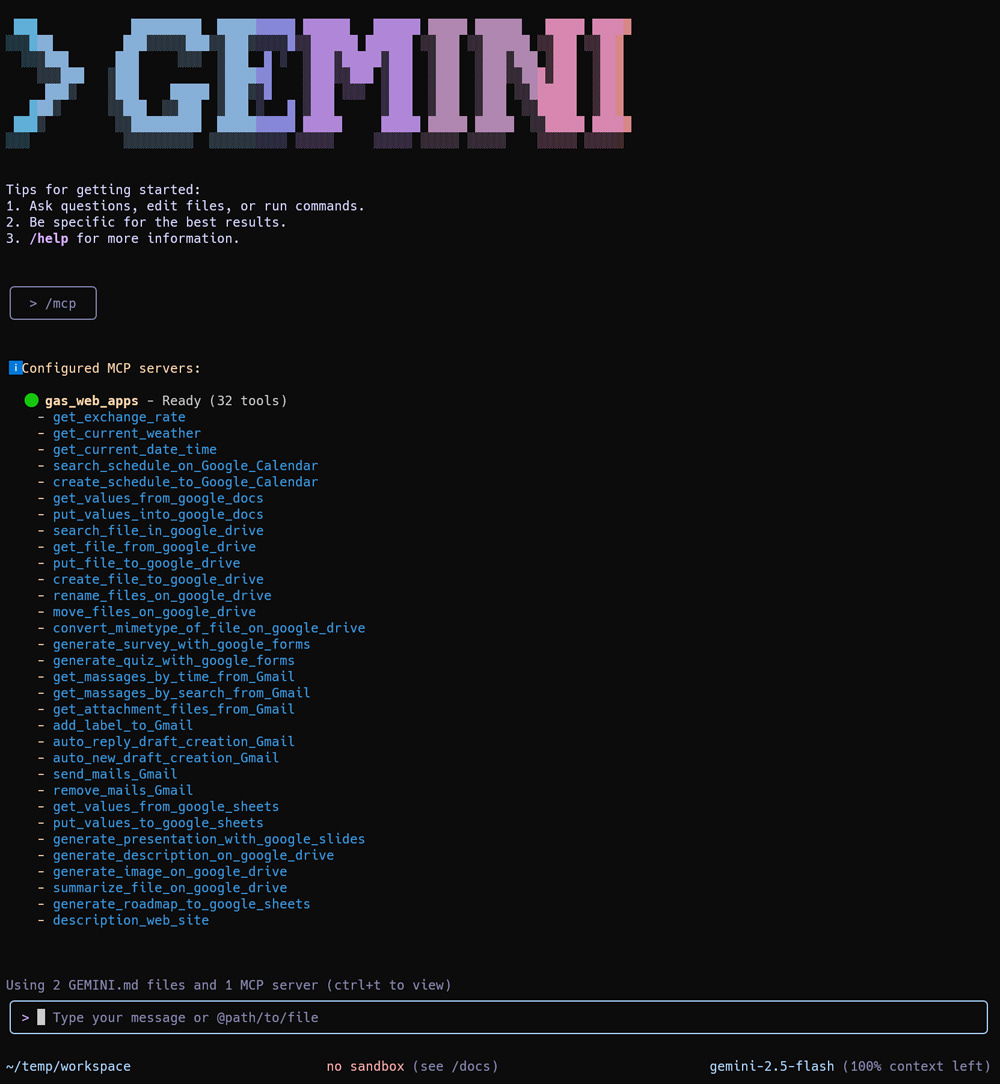
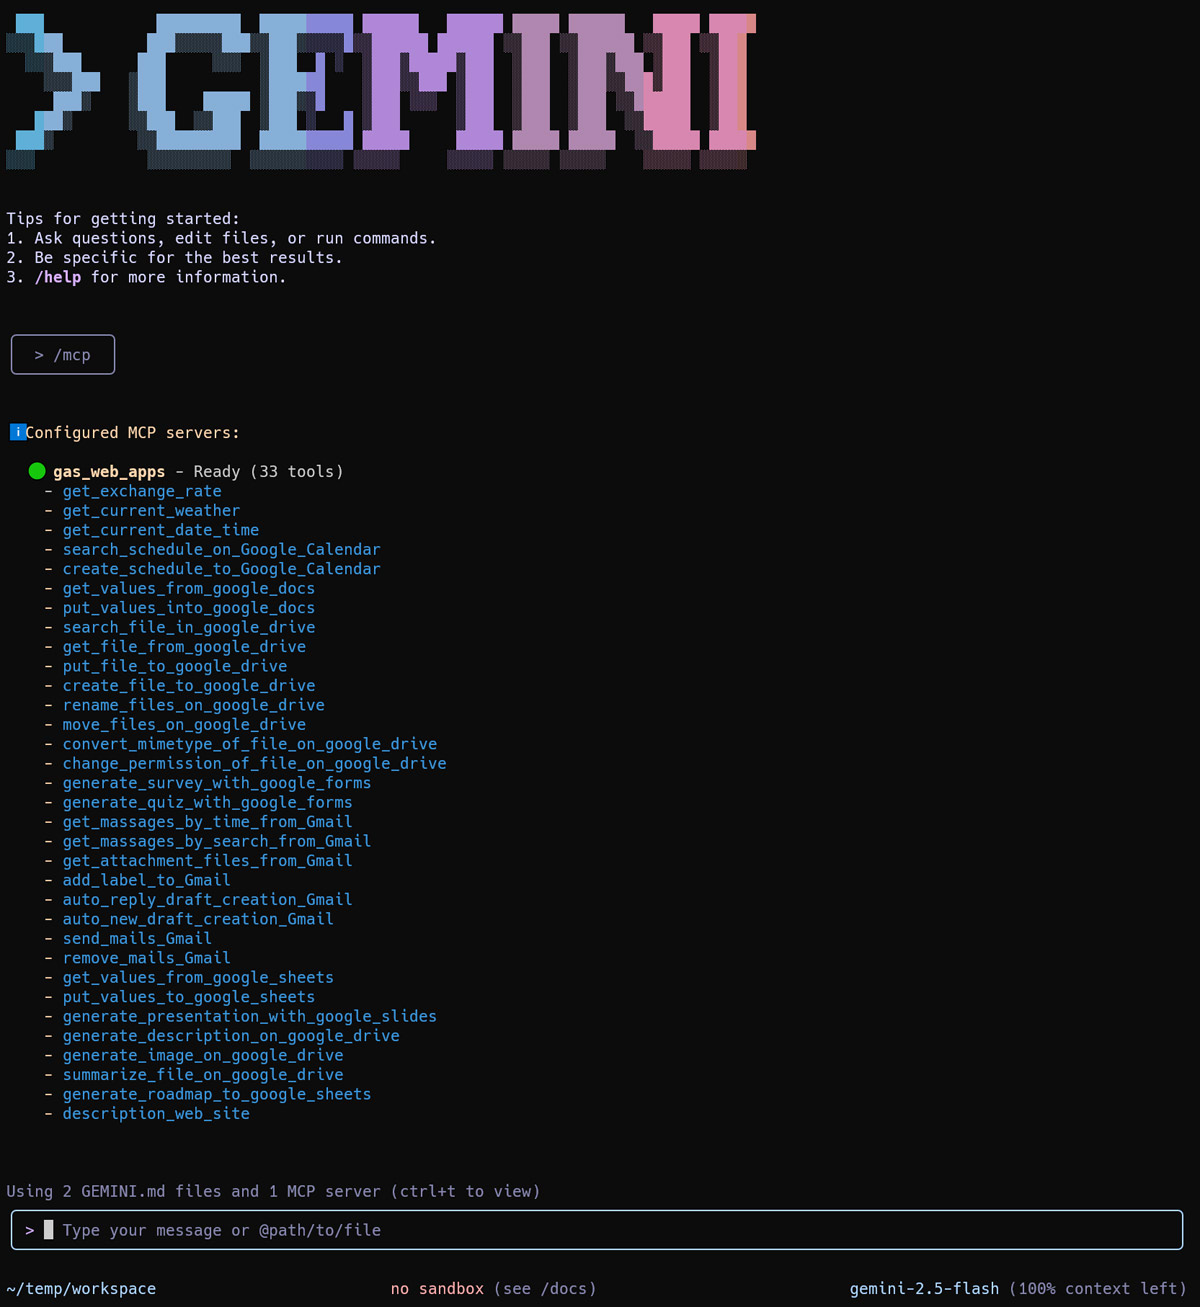
Updated to v1.0.2

Changed region(s): [[0.0, 0.0, 0.992, 1.0]]

diff --git a/management_drive.js b/management_drive.js
@@ -1,6 +1,6 @@
 /**
  * Management of Google Drive
- * Updated on 20250708 13:20
+ * Updated on 20250709 10:25
  */
 
 /**
@@ -275,6 +275,60 @@ function convert_mimetype_of_file_on_google_drive(object = {}) {
   return { jsonrpc: "2.0", result };
 }
 
+/**
+ * This function changes the permission of a file or folder on Google Drive.
+ * 20250709 09:50
+ * @private
+ */
+function change_permission_of_file_on_google_drive(object = {}) {
+  const { fileId, email, role } = object;
+  let result;
+  try {
+    if (!fileId || !email || !role) {
+      throw new Error("Missing required parameters. Please provide 'fileId', 'email', and 'role'.");
+    }
+    const normalizedRole = role.toLowerCase();
+    if (!['viewer', 'commenter', 'editor'].includes(normalizedRole)) {
+      throw new Error("Invalid role specified. The role must be one of 'viewer', 'commenter', or 'editor'.");
+    }
+
+    let item;
+    let itemType;
+
+    try {
+      item = DriveApp.getFileById(fileId);
+      itemType = "file";
+    } catch (e) {
+      try {
+        item = DriveApp.getFolderById(fileId);
+        itemType = "folder";
+      } catch (f) {
+        throw new Error(`Could not find a file or folder with the ID '${fileId}'.`);
+      }
+    }
+
+    switch (normalizedRole) {
+      case 'editor':
+        item.addEditor(email);
+        break;
+      case 'commenter':
+        item.addCommenter(email);
+        break;
+      case 'viewer':
+        item.addViewer(email);
+        break;
+    }
+
+    result = { content: [{ type: "text", text: `Permission for the ${itemType} '${item.getName()}' (ID: ${fileId}) was successfully updated. User '${email}' has been granted '${normalizedRole}' access.` }], isError: false };
+
+  } catch ({ stack }) {
+    result = { content: [{ type: "text", text: stack }], isError: true };
+  }
+  console.log(result); // Check response.
+  return { jsonrpc: "2.0", result };
+}
+
+
 // Descriptions of the functions.
 const descriptions_management_drive = {
   search_file_in_google_drive: {
@@ -396,6 +450,28 @@ const descriptions_management_drive = {
         dstMimeType: { type: "string", description: "Destination mimeType." },
       },
       required: ["fileIds", "dstMimeType"]
+    }
+  },
+
+  change_permission_of_file_on_google_drive: {
+    description: "Use to change the permission of a file or folder on Google Drive for a specific user by providing the item ID, user email, and desired role. As a sample situation, when URLs of the files are included in an email, it is required to add the permission to the recipient user to allow the user to read or write the file.",
+    parameters: {
+      type: "object",
+      properties: {
+        fileId: {
+          description: "The ID of the file or folder on Google Drive whose permissions need to be changed.",
+          type: "string"
+        },
+        email: {
+          description: "The email address of the user to whom the permission will be granted.",
+          type: "string"
+        },
+        role: {
+          description: "The permission level to grant. Accepted values are 'viewer', 'commenter', or 'editor'.",
+          type: "string"
+        },
+      },
+      required: ["fileId", "email", "role"]
     }
   },
 

diff --git a/README.md b/README.md
@@ -23,7 +23,7 @@ Building upon that foundation, this report aims to explore the expanded possibil
 
 # Current tools
 
-In the current stage (July 9, 2025), the following 32 tools are provided by [ToolsForMCPServer](https://github.com/tanaikech/ToolsForMCPServer) for the MCP server.
+In the current stage (July 10, 2025), the following 33 tools are provided by [ToolsForMCPServer](https://github.com/tanaikech/ToolsForMCPServer) for the MCP server.
 
 * `get_exchange_rate(currency_date, currency_from, currency_to)`: Gets the current exchange rate between two currencies for a given date.
 * `get_current_weather(date, latitude, longitude, timezone)`: Gets the weather for a specified date, latitude, longitude, and timezone.
@@ -57,6 +57,7 @@ In the current stage (July 9, 2025), the following 32 tools are provided by [Too
 * `summarize_file_on_google_drive(fileId, prompt)`: Summarizes a file on Google Drive based on a given prompt.
 * `generate_roadmap_to_google_sheets(description, exportPDF, goal, sheetId, sheetIndex, sheetName, spreadsheetId, spreadsheetUrl)`: Generates a roadmap in Google Sheets, with options to export as PDF.
 * `description_web_site(urls)`: Describes websites using their URLs.
+* `change_permission_of_file_on_google_drive`: This is used to modify the access permissions of a specific file or folder on Google Drive for a given user.
 
 # Usage
 
@@ -258,7 +259,7 @@ When your setting is correct, the following result is returned.
 ```text
 ℹ Configured MCP servers:
 
-  🟢 gas_web_apps - Ready (32 tools)
+  🟢 gas_web_apps - Ready (33 tools)
     - get_exchange_rate
     - get_current_weather
     - get_current_date_time
@@ -273,6 +274,7 @@ When your setting is correct, the following result is returned.
     - rename_files_on_google_drive
     - move_files_on_google_drive
     - convert_mimetype_of_file_on_google_drive
+    - change_permission_of_file_on_google_drive
     - generate_survey_with_google_forms
     - generate_quiz_with_google_forms
     - get_massages_by_time_from_Gmail
@@ -915,6 +917,37 @@ When this prompt is run, the following steps are executed:
 5. A tool `auto_new_draft_creation_Gmail` creates a draft email including the URL of the Google Slides.
 6. A tool `send_mails_Gmail` sends the email.
 
+---
+
+The following samples were added on July 10, 2025.
+
+## Generate presentation based on a web site and send it as an email
+
+**Prompt**
+```text
+Create a new Google Document and send an email to tanaike@hotmail.com that includes the document. Grant the user edit permission for the Google Document.
+```
+
+**Answer**
+```text
+  ✔  create_file_to_google_drive (gas_web_apps MCP Server) {"filename":"New Google Document","mimeType":"application/vnd.google…
+     A file was created on the root folder. The file URL is "https://docs.google.com/document/d/###/edit?usp=drivesdk".
+     
+  ✔  change_permission_of_file_on_google_drive (gas_web_apps MCP Server) {"role":"editor","fileId":"###…
+     Permission for the file 'New Google Document' (ID: ###) was successfully updated. User 'tanaike@hotmail.com' has been granted 'editor' access.
+     
+  ✔  auto_new_draft_creation_Gmail (gas_web_apps MCP Server) {"obj":[{"title":"New Google Document","to":"tanaike@hotmail.com",…
+     A draft email was successfully created. The draft ID is "r###".
+     
+  ✔  send_mails_Gmail (gas_web_apps MCP Server) {"draftIds":["r###"]}
+     Message of "New Google Document" was correctly sent.
+
+✦ I have created a new Google Document, granted edit permission to tanaike@hotmail.com, and sent an email to them with the
+  document link.
+```
+
+When this is run, an email including the URL of the Google Document. And, the write permission was added to the email.
+
 # Summary
 
 The examples above demonstrate that combining the Gemini CLI with an MCP server built using Google Apps Script Web Apps enables powerful automation across Google Workspace. By leveraging Google Apps Script's inherent authorization capabilities, we can easily give Gemini access to Gmail, Calendar, Drive, Docs, Sheets, and Slides.
@@ -1034,5 +1067,9 @@ function main(eventObject) {
       - summarize_file_on_google_drive
       - description_web_site
   3. Added sample prompts and answers in README.md.
+
+- v1.0.2 (July 10, 2025)
+  
+  1. A tool `change_permission_of_file_on_google_drive` was added. By this, when a Google Docs files are included in Gmail, the email can be sent by giving permission to the Google Docs file.
 
 [TOP](#top)
